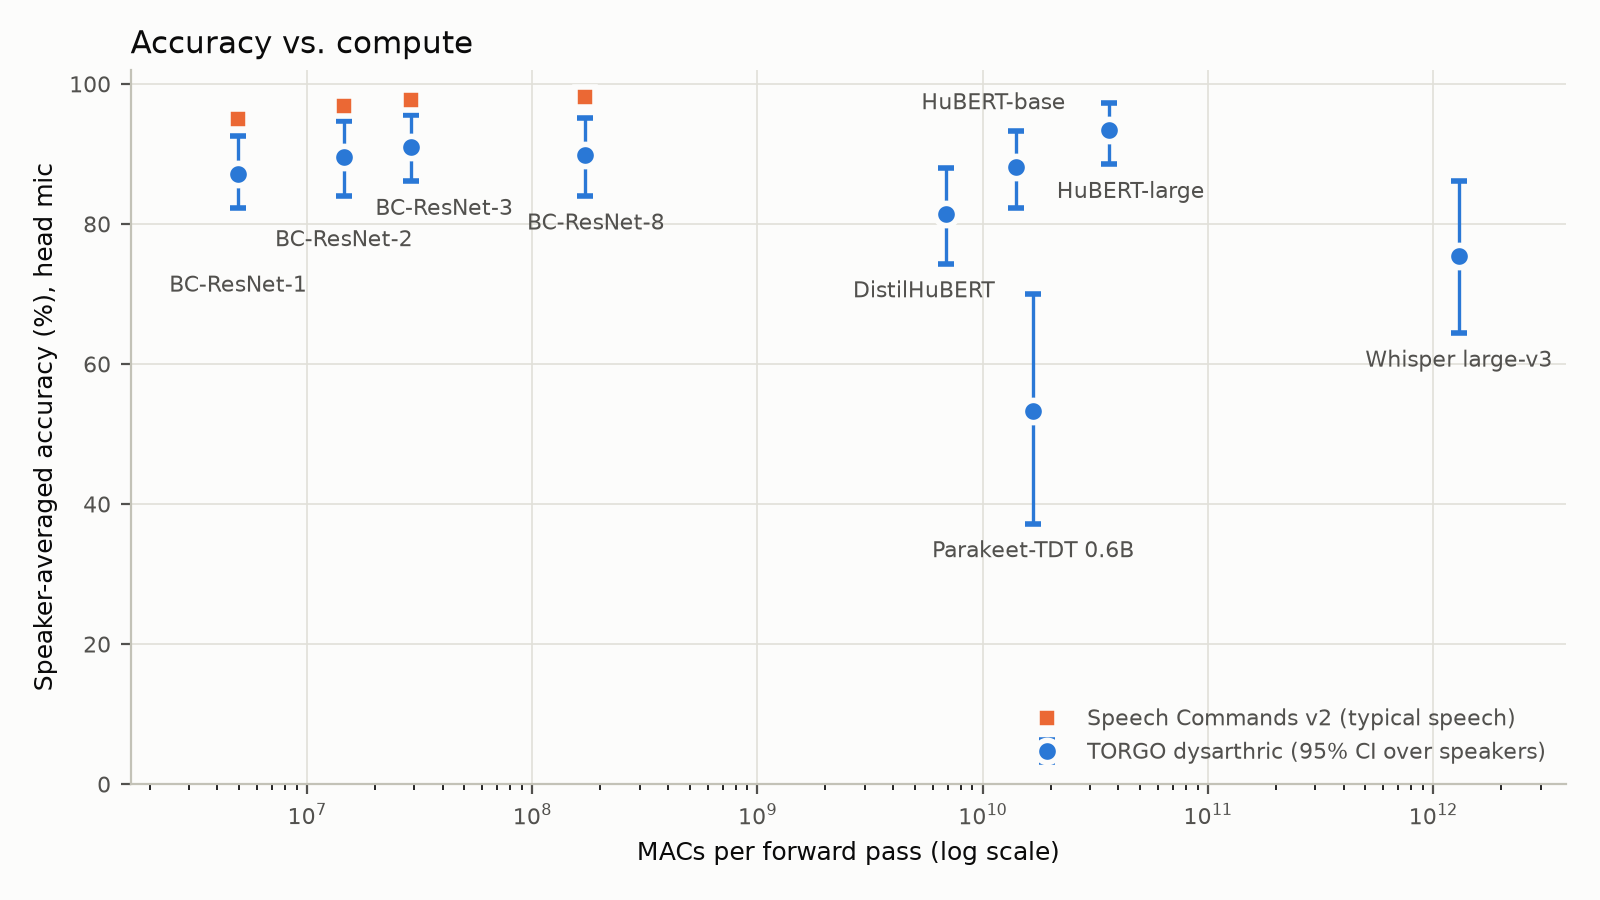
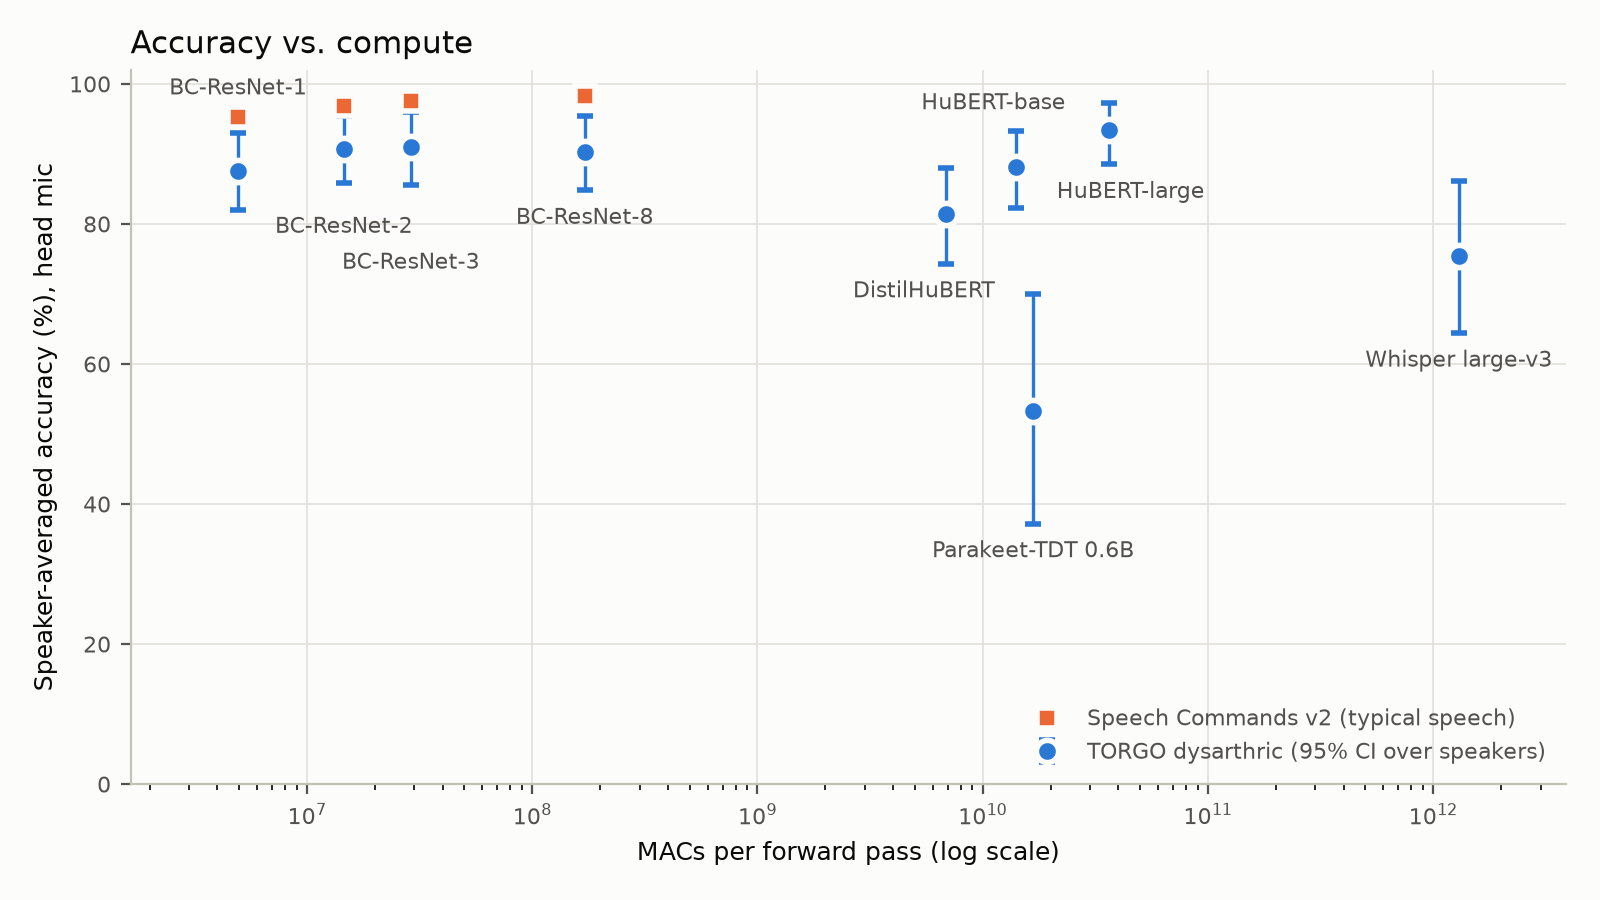
docs: report BC-ResNet results over three seeds
Regenerate the combined report with seeds 0-2 for every BC-ResNet width
and update the README and SSL notes. Headline numbers barely move
(BC-ResNet-8 stays at 86.5%, BC-ResNet-2 87.7%), but three comparisons
change: BC-ResNet-1's lead over DistilHuBERT now excludes zero
(+4.1 [+0.4, +8.0]), HuBERT-large's head-mic lead over BC-ResNet-2 no
longer does (-2.6 [-5.9, +0.2]), and BC-ResNet-1's array-mic gap to
HuBERT-large only just excludes it ([-10.0, -0.02]).

diff --git a/README.md b/README.md
@@ -4,11 +4,11 @@ A **323k-parameter keyword spotter** (BC-ResNet-8) recognizes 20 voice commands
 from **dysarthric speakers it never trained on** with **87% accuracy**. Zero-shot
 Parakeet-TDT-0.6B scores 71% and Whisper large-v3 scores 66%, and Parakeet has
 **about 1,900× more parameters**. Beyond about 28k parameters, width stops helping:
-BC-ResNet-2 (27.8k) scores 87.6%, and the smallest width, BC-ResNet-1 (9.5k), still
-reaches 83.5%. A fine-tuned **HuBERT-large** (316M) is the most accurate model
+BC-ResNet-2 (27.8k) scores 87.7%, and the smallest width, BC-ResNet-1 (9.5k), still
+reaches 84.0%. A fine-tuned **HuBERT-large** (316M) is the most accurate model
 at **89.2%**. On the array microphone, BC-ResNet-2, with **about 11,400× fewer
-parameters**, is 1.6 points behind, a difference the speaker-by-speaker comparison
-cannot tell apart from zero; on the head-mounted microphone HuBERT-large's lead is clear.
+parameters**, is 1.5 points behind, a difference the speaker-by-speaker comparison
+cannot tell apart from zero.
 
 ![Accuracy vs. model size: BC-ResNet widths, pretrained HuBERT models and zero-shot ASR](outputs/results/accuracy_vs_params.png)
 
@@ -26,39 +26,40 @@ set of commands.
 
 TORGO, 8 dysarthric speakers, each held out in turn (leave-one-speaker-out). Accuracy
 is computed per speaker and then averaged over speakers, on the array microphone,
-with a 95% bootstrap interval over speakers. BC-ResNet numbers are the mean of 2 seeds,
-± their standard deviation (a third seed is training); the pretrained HuBERT and
-DistilHuBERT models are the mean of 3 seeds.
+with a 95% bootstrap interval over speakers. Every trained model (BC-ResNet, HuBERT and
+DistilHuBERT) is the mean of 3 seeds, ± their standard deviation.
 
 | Model | Params | MACs / 2 s | Accuracy | ± seed std | 95% CI | Severe (4 speakers) | Mild (3 speakers) |
 |---|---|---|---|---|---|---|---|
 | Whisper large-v3 (zero-shot) | 1.54B | 1.3T | 66.3% | — | [53.6, 80.2] | 54.1% | 89.7% |
 | Parakeet-TDT-0.6B-v3 (zero-shot) | 627M | 16.7G | 70.6% | — | [59.0, 83.8] | 56.2% | 91.2% |
-| BC-ResNet-1 | 9.5k | 4.9M | 83.5% | 1.0 | [76.6, 90.0] | 78.2% | 90.6% |
-| BC-ResNet-2 | 27.8k | 14.6M | 87.6% | 0.8 | [82.9, 92.7] | 84.4% | 93.4% |
-| BC-ResNet-3 | 54.9k | 28.9M | 87.2% | 0.8 | [81.2, 93.7] | 83.9% | 92.9% |
-| **BC-ResNet-8** (demo) | **323k** | **171M** | **86.5%** | 2.6 | [80.8, 92.6] | 79.1% | 95.6% |
+| BC-ResNet-1 | 9.5k | 4.9M | 84.0% | 1.1 | [77.2, 90.8] | 80.0% | 91.4% |
+| BC-ResNet-2 | 27.8k | 14.6M | 87.7% | 0.6 | [83.4, 92.3] | 84.8% | 92.5% |
+| BC-ResNet-3 | 54.9k | 28.9M | 87.3% | 0.6 | [81.5, 93.8] | 84.4% | 93.2% |
+| **BC-ResNet-8** (demo) | **323k** | **171M** | **86.5%** | 1.9 | [81.0, 92.5] | 79.8% | 95.8% |
 | DistilHuBERT | 23.9M | 6.9G | 79.9% | 4.5 | [73.5, 85.9] | 75.6% | 86.3% |
 | HuBERT-base | 94.8M | 14.0G | 81.1% | 1.3 | [70.7, 89.9] | 77.9% | 90.2% |
 | HuBERT-large | 316M | 36.2G | 89.2% | 0.4 | [85.2, 93.1] | 85.5% | 95.6% |
 
 - **Speaker by speaker**, BC-ResNet-8 beats Parakeet on 6 of 8 speakers and ties on the
-  other 2 (two mild speakers at 100%). Mean gain: **+15.9 points** [+8.6, +22.8]. It
-  beats Whisper on all 8 speakers (+20.3 points).
+  other 2 (two mild speakers at 100%). Mean gain: **+15.8 points** [+8.7, +23.0]. It
+  beats Whisper on all 8 speakers (+20.2 points).
 - **The gain is largest where ASR fails:** on the four severe speakers, the four widths
-  score 78–84% against 56% for Parakeet and 54% for Whisper.
+  score 80–85% against 56% for Parakeet and 54% for Whisper.
 - **Width pays on typical speech, not on dysarthric speech.** On Speech Commands v2
-  (35 words + silence, 2 s window, before TORGO fine-tuning) accuracy rises from 95.1%
+  (35 words + silence, 2 s window, before TORGO fine-tuning) accuracy rises from 95.3%
   (BC-ResNet-1) to 98.2% (BC-ResNet-8). On TORGO, BC-ResNet-2, -3 and -8 are within
-  1.1 points of each other, less than the 3.7 points between BC-ResNet-8's two seeds.
+  1.2 points of each other, less than the 3.7 points between BC-ResNet-8's best and
+  worst seeds.
 - **HuBERT-large is the most accurate model, but not by much.** Speaker by speaker,
-  BC-ResNet-2 is 1.6 points behind it [−5.5, +2.0] and BC-ResNet-8 2.7 points
-  [−7.3, +1.6]; each is better on 4 speakers and worse on 4. Only the smallest width is
-  clearly behind: BC-ResNet-1, −5.7 points [−10.9, −0.7], worse on 6 of 8.
+  BC-ResNet-2 is 1.5 points behind it [−5.1, +1.6] (better on 4 speakers, worse on 3)
+  and BC-ResNet-8 2.8 points [−6.8, +1.0] (better on 3, worse on 4). Only the smallest
+  width is clearly behind: BC-ResNet-1, −5.3 points [−10.0, −0.02], worse on 6 of 8,
+  though its interval only just excludes zero.
 - **On average, the smaller pretrained models fall below every BC-ResNet width:**
-  HuBERT-base scores 81.1% and DistilHuBERT 79.9%, against 83.5% for BC-ResNet-1.
-  Speaker by speaker, BC-ResNet-1's lead includes zero: +2.4 points [−5.7, +11.4] over
-  HuBERT-base and +3.6 [−0.4, +7.4] over DistilHuBERT.
+  HuBERT-base scores 81.1% and DistilHuBERT 79.9%, against 84.0% for BC-ResNet-1.
+  Speaker by speaker, BC-ResNet-1 leads DistilHuBERT by +4.1 points [+0.4, +8.0]
+  (better on 6 of 8); its +2.9-point lead over HuBERT-base [−4.7, +11.2] includes zero.
 - **Dysarthric fine-tuning helps every pretrained model, most of all the smallest.**
   Trained on the 7 control speakers only, HuBERT-large already reaches 85.8%. The
   dysarthric stage then adds 3.4 points to HuBERT-large and 13.4 to DistilHuBERT, and
@@ -71,11 +72,11 @@ DistilHuBERT models are the mean of 3 seeds.
   | HuBERT-large | 85.8% | 89.2% | +3.4 | [+1.6, +5.4] |
 
 - **On the head-mounted microphone**, every BC-ResNet width still beats both ASR models:
-  87.2–91.0% (BC-ResNet-8: 89.8%), against 75.4% for Whisper and 53.3% for Parakeet.
-  HuBERT-large scores 93.4%, and here its lead over BC-ResNet-2 is clear: −3.8 points
-  [−7.2, −0.5], with BC-ResNet-2 better on 2 speakers and worse on 5. BC-ResNet-1 is
-  further behind, −6.2 [−9.5, −2.6]; the intervals for BC-ResNet-3 (−2.4 [−6.5, +1.3])
-  and BC-ResNet-8 (−3.5 [−7.8, +0.4]) include zero.
+  87.5–91.0% (BC-ResNet-8: 90.2%), against 75.4% for Whisper and 53.3% for Parakeet.
+  HuBERT-large scores 93.4%, and its lead is larger than on the array mic: BC-ResNet-2
+  is −2.6 points [−5.9, +0.2] (better on 2 speakers, worse on 4), BC-ResNet-3 −2.4
+  [−6.4, +1.3] and BC-ResNet-8 −3.1 [−6.7, +0.1], intervals that only just include
+  zero. Only BC-ResNet-1 is clearly behind, −5.8 [−9.0, −2.7].
 
 The comparison is fair to the ASR models in two ways. They hear the same 2 s clip. Each
 transcript is mapped to the nearest of the 20 commands ("lenient" scoring), so near
@@ -93,9 +94,9 @@ report in [`outputs/step1-asr/`](outputs/step1-asr/).
   anything.
 - **Small test set.** TORGO has 8 dysarthric speakers with 8–34 test clips each (array
   mic), so the intervals are wide.
-- **Few seeds.** BC-ResNet has 2 seeds so far and the pretrained models 3. One test clip
-  moves a speaker's accuracy by 3–12.5 points, so BC-ResNet's seeds differ by up to 3.7
-  points (BC-ResNet-8: 88.4% and 84.7%), and DistilHuBERT's seed standard deviation is
+- **Few seeds.** Every trained model has 3 seeds. One test clip moves a speaker's
+  accuracy by 3–12.5 points, so BC-ResNet's seeds differ by up to 3.7 points
+  (BC-ResNet-8: 88.4%, 84.7% and 86.4%), and DistilHuBERT's seed standard deviation is
   4.5 points. The differences between BC-ResNet widths 2, 3 and 8, and between them and
   HuBERT-large, are within that.
 - **Cost is counted, not measured on a device.** BC-ResNet's MACs exclude the log-Mel

diff --git a/outputs/results/head-mic/comparisons.md b/outputs/results/head-mic/comparisons.md
@@ -2,14 +2,14 @@
 
 | Candidate | Baseline | Better on | Worse on | Tied | Mean gain (pts) | 95% CI (speakers) |
 |---|---|---|---|---|---|---|
-| bcresnet-1 | whisper-large-v3-lenient | 6 of 8 | 2 | 0 | +11.8 | [+3.9, +20.3] |
-| bcresnet-1 | parakeet-tdt-0.6b-v3-lenient | 8 of 8 | 0 | 0 | +33.8 | [+20.9, +46.7] |
-| bcresnet-2 | whisper-large-v3-lenient | 7 of 8 | 1 | 0 | +14.2 | [+6.7, +22.3] |
-| bcresnet-2 | parakeet-tdt-0.6b-v3-lenient | 8 of 8 | 0 | 0 | +36.2 | [+21.6, +51.7] |
-| bcresnet-3 | whisper-large-v3-lenient | 7 of 8 | 0 | 1 | +15.6 | [+9.0, +22.4] |
-| bcresnet-3 | parakeet-tdt-0.6b-v3-lenient | 8 of 8 | 0 | 0 | +37.6 | [+23.5, +52.8] |
-| bcresnet-8 | whisper-large-v3-lenient | 7 of 8 | 0 | 1 | +14.4 | [+7.9, +21.2] |
-| bcresnet-8 | parakeet-tdt-0.6b-v3-lenient | 8 of 8 | 0 | 0 | +36.5 | [+23.5, +50.2] |
+| bcresnet-1 | whisper-large-v3-lenient | 6 of 8 | 2 | 0 | +12.1 | [+3.6, +21.7] |
+| bcresnet-1 | parakeet-tdt-0.6b-v3-lenient | 8 of 8 | 0 | 0 | +34.2 | [+20.4, +47.9] |
+| bcresnet-2 | whisper-large-v3-lenient | 7 of 8 | 1 | 0 | +15.3 | [+7.1, +24.3] |
+| bcresnet-2 | parakeet-tdt-0.6b-v3-lenient | 8 of 8 | 0 | 0 | +37.4 | [+22.4, +53.1] |
+| bcresnet-3 | whisper-large-v3-lenient | 7 of 8 | 0 | 1 | +15.6 | [+8.9, +22.5] |
+| bcresnet-3 | parakeet-tdt-0.6b-v3-lenient | 8 of 8 | 0 | 0 | +37.6 | [+23.3, +53.2] |
+| bcresnet-8 | whisper-large-v3-lenient | 7 of 8 | 0 | 1 | +14.8 | [+7.9, +22.2] |
+| bcresnet-8 | parakeet-tdt-0.6b-v3-lenient | 8 of 8 | 0 | 0 | +36.9 | [+23.5, +50.9] |
 | hubert-large | whisper-large-v3-lenient | 7 of 8 | 1 | 0 | +18.0 | [+8.5, +28.1] |
 | hubert-large | parakeet-tdt-0.6b-v3-lenient | 7 of 8 | 0 | 1 | +40.0 | [+24.9, +54.9] |
 | hubert-base | whisper-large-v3-lenient | 6 of 8 | 2 | 0 | +12.7 | [+4.7, +20.8] |
@@ -35,7 +35,7 @@
 
 | Candidate | Baseline | Better on | Worse on | Tied | Mean gain (pts) | 95% CI (speakers) |
 |---|---|---|---|---|---|---|
-| bcresnet-1 | hubert-large | 1 of 8 | 6 | 1 | -6.2 | [-9.5, -2.6] |
-| bcresnet-2 | hubert-large | 2 of 8 | 5 | 1 | -3.8 | [-7.2, -0.5] |
-| bcresnet-3 | hubert-large | 2 of 8 | 4 | 2 | -2.4 | [-6.5, +1.3] |
-| bcresnet-8 | hubert-large | 2 of 8 | 5 | 1 | -3.5 | [-7.8, +0.4] |
+| bcresnet-1 | hubert-large | 1 of 8 | 6 | 1 | -5.8 | [-9.0, -2.7] |
+| bcresnet-2 | hubert-large | 2 of 8 | 4 | 2 | -2.6 | [-5.9, +0.2] |
+| bcresnet-3 | hubert-large | 2 of 8 | 4 | 2 | -2.4 | [-6.4, +1.3] |
+| bcresnet-8 | hubert-large | 2 of 8 | 5 | 1 | -3.1 | [-6.7, +0.1] |

diff --git a/outputs/results/comparisons.md b/outputs/results/comparisons.md
@@ -2,14 +2,14 @@
 
 | Candidate | Baseline | Better on | Worse on | Tied | Mean gain (pts) | 95% CI (speakers) |
 |---|---|---|---|---|---|---|
-| bcresnet-1 | whisper-large-v3-lenient | 6 of 8 | 1 | 1 | +17.2 | [+6.6, +28.8] |
-| bcresnet-1 | parakeet-tdt-0.6b-v3-lenient | 6 of 8 | 2 | 0 | +12.9 | [+3.7, +23.7] |
-| bcresnet-2 | whisper-large-v3-lenient | 7 of 8 | 0 | 1 | +21.3 | [+10.8, +31.8] |
-| bcresnet-2 | parakeet-tdt-0.6b-v3-lenient | 6 of 8 | 1 | 1 | +17.0 | [+7.6, +27.1] |
-| bcresnet-3 | whisper-large-v3-lenient | 7 of 8 | 0 | 1 | +20.9 | [+9.9, +32.7] |
-| bcresnet-3 | parakeet-tdt-0.6b-v3-lenient | 6 of 8 | 1 | 1 | +16.5 | [+6.7, +28.1] |
-| bcresnet-8 | whisper-large-v3-lenient | 8 of 8 | 0 | 0 | +20.3 | [+11.3, +29.6] |
-| bcresnet-8 | parakeet-tdt-0.6b-v3-lenient | 6 of 8 | 0 | 2 | +15.9 | [+8.6, +22.8] |
+| bcresnet-1 | whisper-large-v3-lenient | 7 of 8 | 1 | 0 | +17.7 | [+7.5, +28.8] |
+| bcresnet-1 | parakeet-tdt-0.6b-v3-lenient | 6 of 8 | 2 | 0 | +13.3 | [+4.1, +24.4] |
+| bcresnet-2 | whisper-large-v3-lenient | 7 of 8 | 0 | 1 | +21.4 | [+10.6, +32.2] |
+| bcresnet-2 | parakeet-tdt-0.6b-v3-lenient | 6 of 8 | 2 | 0 | +17.1 | [+7.5, +27.0] |
+| bcresnet-3 | whisper-large-v3-lenient | 7 of 8 | 0 | 1 | +21.0 | [+10.3, +32.6] |
+| bcresnet-3 | parakeet-tdt-0.6b-v3-lenient | 6 of 8 | 1 | 1 | +16.7 | [+6.9, +28.2] |
+| bcresnet-8 | whisper-large-v3-lenient | 8 of 8 | 0 | 0 | +20.2 | [+11.5, +29.1] |
+| bcresnet-8 | parakeet-tdt-0.6b-v3-lenient | 6 of 8 | 0 | 2 | +15.8 | [+8.7, +23.0] |
 | hubert-large | whisper-large-v3-lenient | 7 of 8 | 1 | 0 | +23.0 | [+12.5, +32.6] |
 | hubert-large | parakeet-tdt-0.6b-v3-lenient | 6 of 8 | 2 | 0 | +18.6 | [+8.5, +28.0] |
 | hubert-base | whisper-large-v3-lenient | 5 of 8 | 3 | 0 | +14.8 | [+3.4, +27.2] |
@@ -35,7 +35,7 @@
 
 | Candidate | Baseline | Better on | Worse on | Tied | Mean gain (pts) | 95% CI (speakers) |
 |---|---|---|---|---|---|---|
-| bcresnet-1 | hubert-large | 2 of 8 | 6 | 0 | -5.7 | [-10.9, -0.7] |
-| bcresnet-2 | hubert-large | 4 of 8 | 4 | 0 | -1.6 | [-5.5, +2.0] |
-| bcresnet-3 | hubert-large | 3 of 8 | 4 | 1 | -2.1 | [-7.2, +3.4] |
-| bcresnet-8 | hubert-large | 4 of 8 | 4 | 0 | -2.7 | [-7.3, +1.6] |
+| bcresnet-1 | hubert-large | 2 of 8 | 6 | 0 | -5.3 | [-10.0, +0.0] |
+| bcresnet-2 | hubert-large | 4 of 8 | 3 | 1 | -1.5 | [-5.1, +1.6] |
+| bcresnet-3 | hubert-large | 3 of 8 | 4 | 1 | -1.9 | [-6.8, +3.4] |
+| bcresnet-8 | hubert-large | 3 of 8 | 4 | 1 | -2.8 | [-6.8, +1.0] |

diff --git a/outputs/results/head-mic/results.md b/outputs/results/head-mic/results.md
@@ -2,10 +2,10 @@
 |---|---|---|---|---|---|---|---|---|---|---|---|---|
 | whisper-large-v3-lenient | 1 | 75.4 | — | [64.4, 86.2] | 60.9 | 83.9 | 91.9 | 97.9 | 1.5G | 1.3T | 2 | encoder padded to 30 s; greedy decode of one clip |
 | parakeet-tdt-0.6b-v3-lenient | 1 | 53.3 | — | [37.2, 70.0] | 43.3 | 16.1 | 79.1 | 90.0 | 627M | 16.7G | 2 | greedy TDT decode of one clip; multilingual, language not forced |
-| bcresnet-1 | 2 | 87.2 | 1.2 | [82.3, 92.5] | 82.9 | 80.6 | 95.0 | — | 9.5k | 4.9M | 2 | log-Mel front end not counted |
-| bcresnet-2 | 2 | 89.6 | 2.9 | [84.0, 94.7] | 84.9 | 93.5 | 94.5 | — | 27.8k | 14.6M | 2 | log-Mel front end not counted |
-| bcresnet-3 | 2 | 91.0 | 0.9 | [86.1, 95.6] | 84.9 | 96.8 | 97.1 | — | 54.9k | 28.9M | 2 | log-Mel front end not counted |
-| bcresnet-8 | 2 | 89.8 | 3.7 | [84.0, 95.1] | 84.3 | 90.3 | 97.1 | — | 323k | 171M | 2 | log-Mel front end not counted |
+| bcresnet-1 | 3 | 87.5 | 1.0 | [82.0, 93.0] | 83.9 | 82.8 | 93.9 | — | 9.5k | 4.9M | 2 | log-Mel front end not counted |
+| bcresnet-2 | 3 | 90.7 | 2.9 | [85.9, 95.4] | 87.1 | 93.5 | 94.7 | — | 27.8k | 14.6M | 2 | log-Mel front end not counted |
+| bcresnet-3 | 3 | 91.0 | 0.6 | [85.5, 95.9] | 85.2 | 96.8 | 96.7 | — | 54.9k | 28.9M | 2 | log-Mel front end not counted |
+| bcresnet-8 | 3 | 90.2 | 2.7 | [84.8, 95.4] | 85.3 | 90.3 | 96.7 | — | 323k | 171M | 2 | log-Mel front end not counted |
 | hubert-large | 3 | 93.4 | 0.5 | [88.5, 97.2] | 90.5 | 91.4 | 97.8 | — | 316M | 36.2G | 2 | MACs include the CNN front end, every transformer layer and the head |
 | hubert-base | 3 | 88.1 | 2.0 | [82.3, 93.2] | 84.4 | 82.8 | 94.8 | — | 94.8M | 14.0G | 2 | MACs include the CNN front end, every transformer layer and the head |
 | distilhubert | 3 | 81.4 | 3.3 | [74.3, 88.0] | 75.2 | 76.3 | 91.5 | — | 23.9M | 6.9G | 2 | MACs include the CNN front end, every transformer layer and the head |

diff --git a/outputs/results/results.md b/outputs/results/results.md
@@ -2,10 +2,10 @@
 |---|---|---|---|---|---|---|---|---|---|---|---|---|
 | whisper-large-v3-lenient | 1 | 66.3 | — | [53.6, 80.2] | 54.1 | 44.4 | 89.7 | 95.7 | 1.5G | 1.3T | 2 | encoder padded to 30 s; greedy decode of one clip |
 | parakeet-tdt-0.6b-v3-lenient | 1 | 70.6 | — | [59.0, 83.8] | 56.2 | 66.7 | 91.2 | 92.0 | 627M | 16.7G | 2 | greedy TDT decode of one clip; multilingual, language not forced |
-| bcresnet-1 | 2 | 83.5 | 1.0 | [76.6, 90.0] | 78.2 | 83.3 | 90.6 | — | 9.5k | 4.9M | 2 | log-Mel front end not counted |
-| bcresnet-2 | 2 | 87.6 | 0.8 | [82.9, 92.7] | 84.4 | 83.3 | 93.4 | — | 27.8k | 14.6M | 2 | log-Mel front end not counted |
-| bcresnet-3 | 2 | 87.2 | 0.8 | [81.2, 93.7] | 83.9 | 83.3 | 92.9 | — | 54.9k | 28.9M | 2 | log-Mel front end not counted |
-| bcresnet-8 | 2 | 86.5 | 2.6 | [80.8, 92.6] | 79.1 | 88.9 | 95.6 | — | 323k | 171M | 2 | log-Mel front end not counted |
+| bcresnet-1 | 3 | 84.0 | 1.1 | [77.2, 90.8] | 80.0 | 77.8 | 91.4 | — | 9.5k | 4.9M | 2 | log-Mel front end not counted |
+| bcresnet-2 | 3 | 87.7 | 0.6 | [83.4, 92.3] | 84.8 | 85.2 | 92.5 | — | 27.8k | 14.6M | 2 | log-Mel front end not counted |
+| bcresnet-3 | 3 | 87.3 | 0.6 | [81.5, 93.8] | 84.4 | 81.5 | 93.2 | — | 54.9k | 28.9M | 2 | log-Mel front end not counted |
+| bcresnet-8 | 3 | 86.5 | 1.9 | [81.0, 92.5] | 79.8 | 85.2 | 95.8 | — | 323k | 171M | 2 | log-Mel front end not counted |
 | hubert-large | 3 | 89.2 | 0.4 | [85.2, 93.1] | 85.5 | 85.2 | 95.6 | — | 316M | 36.2G | 2 | MACs include the CNN front end, every transformer layer and the head |
 | hubert-base | 3 | 81.1 | 1.3 | [70.7, 89.9] | 77.9 | 66.7 | 90.2 | — | 94.8M | 14.0G | 2 | MACs include the CNN front end, every transformer layer and the head |
 | distilhubert | 3 | 79.9 | 4.5 | [73.5, 85.9] | 75.6 | 77.8 | 86.3 | — | 23.9M | 6.9G | 2 | MACs include the CNN front end, every transformer layer and the head |

diff --git a/docs/ssl-backbones.md b/docs/ssl-backbones.md
@@ -25,12 +25,13 @@ all 8 dysarthric speakers. The gain is the paired per-speaker difference between
 - Dysarthric fine-tuning improves every backbone on 6 of 8 speakers and makes none
   worse (2 ties), and helps the smallest backbone most.
 - HuBERT-large is the most accurate model in the project. On the array microphone,
-  BC-ResNet-2 (27.8k parameters) is 1.6 points behind it [−5.5, +2.0], better on 4
-  speakers and worse on 4. On the head microphone the lead is clear: −3.8 points
-  [−7.2, −0.5], BC-ResNet-2 better on 2 speakers and worse on 5.
+  BC-ResNet-2 (27.8k parameters) is 1.5 points behind it [−5.1, +1.6], better on 4
+  speakers and worse on 3. On the head microphone the lead is larger but its interval
+  still only just includes zero: −2.6 points [−5.9, +0.2], BC-ResNet-2 better on 2
+  speakers and worse on 4.
 - On average, HuBERT-base and DistilHuBERT score below every BC-ResNet width. Speaker by
-  speaker, BC-ResNet-1's lead over them includes zero: +2.4 [−5.7, +11.4] and
-  +3.6 [−0.4, +7.4].
+  speaker, BC-ResNet-1 leads DistilHuBERT by +4.1 [+0.4, +8.0]; its lead over HuBERT-base,
+  +2.9 [−4.7, +11.2], includes zero.
 - Head microphone: 93.4% (`hubert-large`), 88.1% (`hubert-base`), 81.4% (`distilhubert`).
 
 Params and MACs count the whole model, CNN front end included (BC-ResNet's MACs
